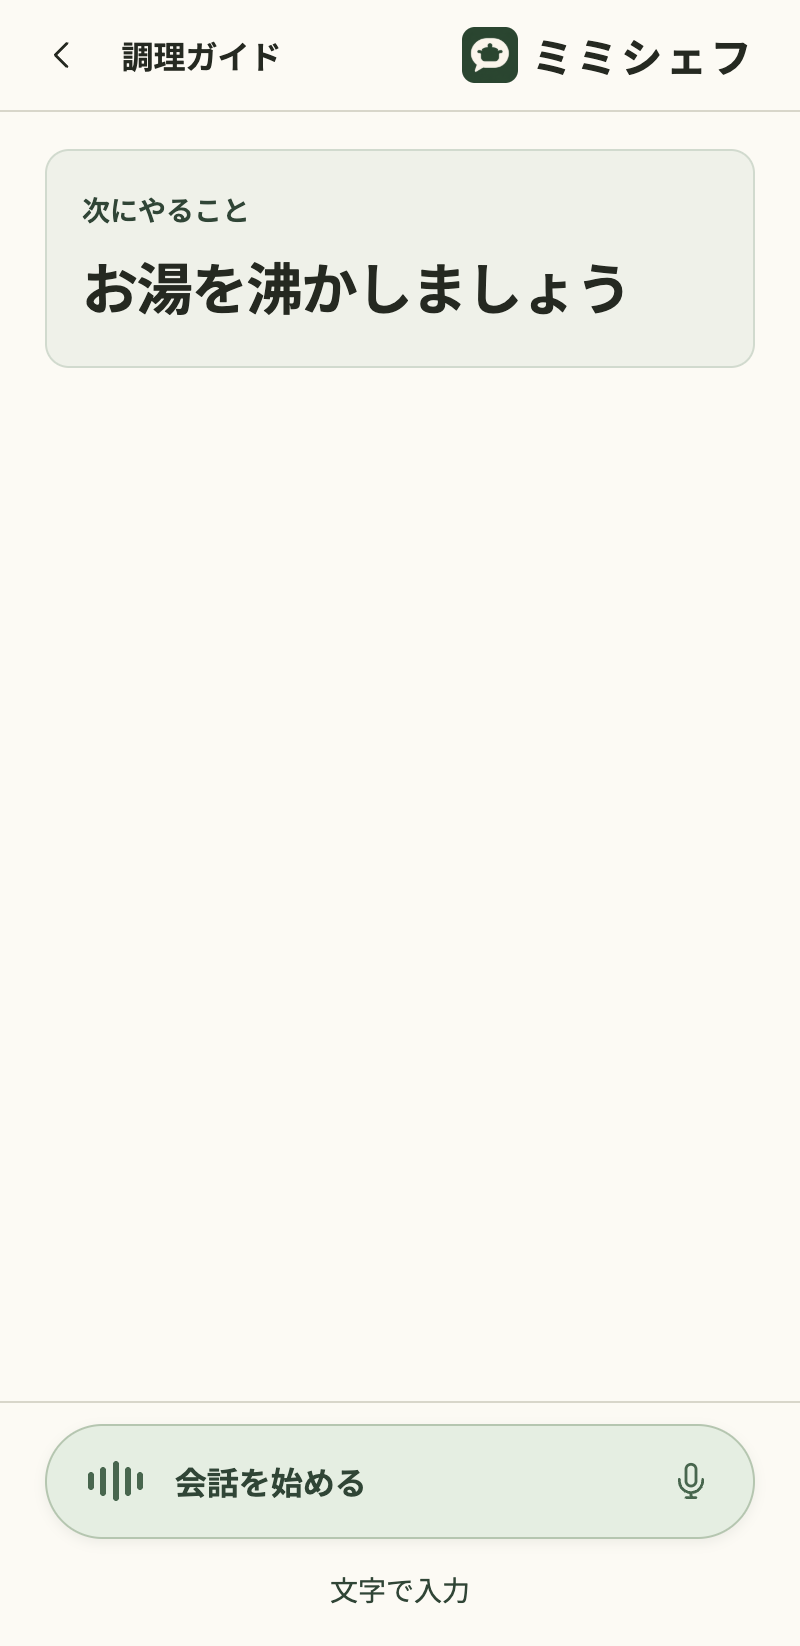
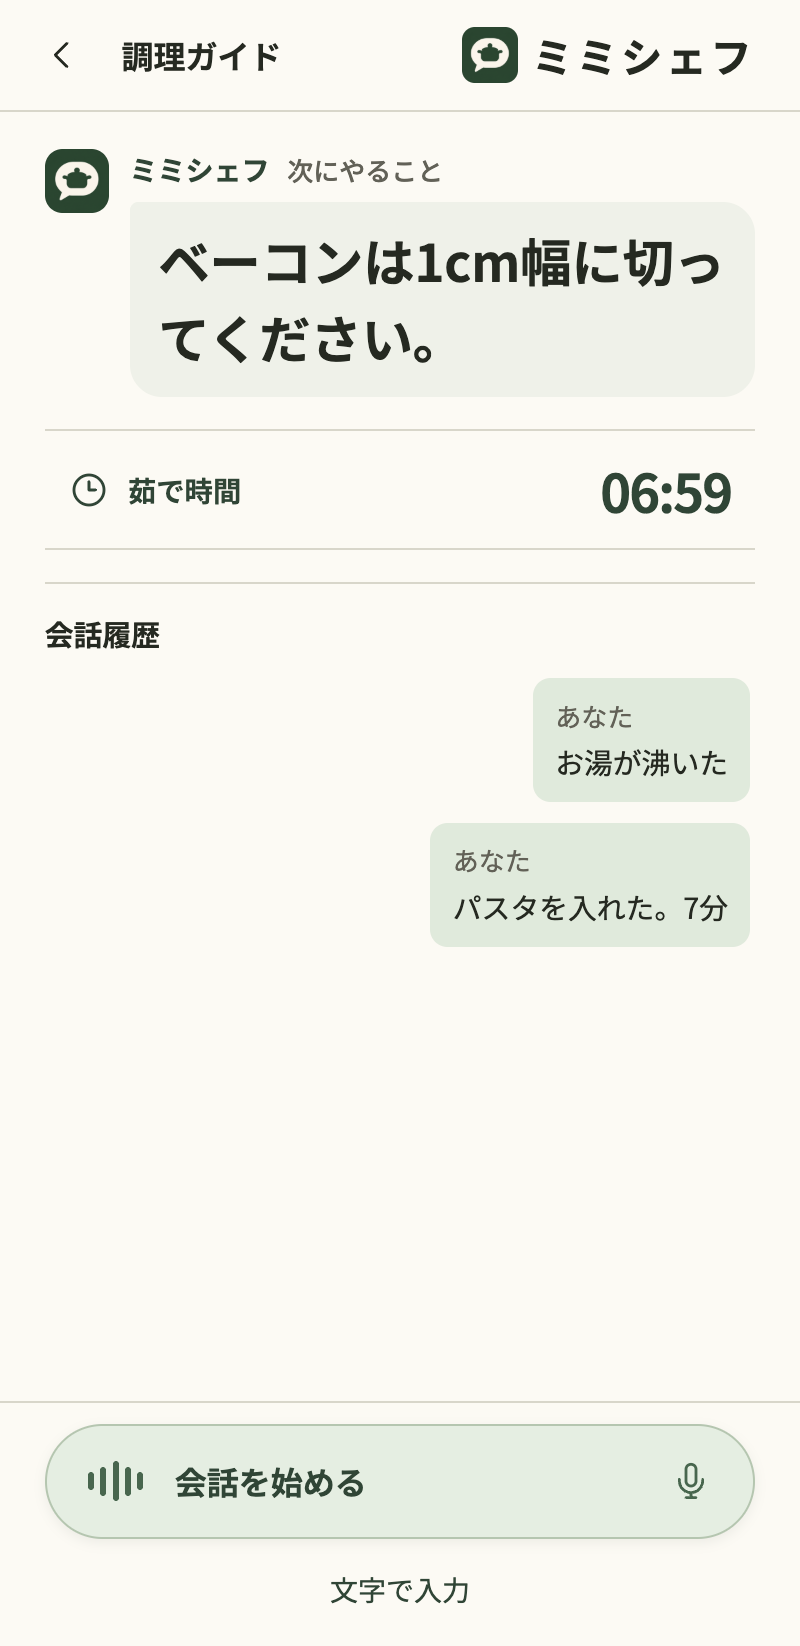
Show the mobile cooking instruction as a message

diff --git a/mobile-design-mock/styles.css b/mobile-design-mock/styles.css
@@ -45,9 +45,37 @@ svg { width: 1.25rem; height: 1.25rem; flex: none; fill: none; stroke: currentCo
 .cooking-bar .wordmark { margin-inline-start: auto; }
 #cooking { display: flex; flex-direction: column; min-height: 100dvh; }
 .cooking-content { padding: 0 1.4rem max(1.35rem, env(safe-area-inset-bottom)); }
-.next-step { margin-block: 1.15rem 1rem; padding: 1.2rem 1.1rem; border: 1px solid #d2dace; border-radius: .75rem; background: #eef1e9; }
-.next-step h2 { margin-bottom: .45rem; color: var(--green); font-size: .875rem; font-weight: 600; }
-.next-step p { font-weight: 650; font-size: clamp(1.5rem, 7vw, 2.1rem); letter-spacing: -.02em; line-height: 1.5; line-break: strict; text-wrap: balance; overflow-wrap: anywhere; }
+.next-step {
+  display: grid;
+  grid-template-columns: auto minmax(0, 1fr);
+  align-items: start;
+  gap: .65rem;
+  margin-block: 1.15rem 1rem;
+}
+.next-step-avatar { border-radius: .55rem; }
+.next-step h2 {
+  display: flex;
+  flex-wrap: wrap;
+  align-items: baseline;
+  gap: .2rem .55rem;
+  margin-bottom: .4rem;
+  color: var(--green);
+  font-size: .875rem;
+  font-weight: 700;
+}
+.next-step h2 span { color: var(--muted); font-size: .8125rem; font-weight: 500; }
+.next-step p {
+  width: fit-content;
+  max-width: 100%;
+  padding: .65rem .9rem;
+  border-radius: .25rem 1rem 1rem;
+  background: #eef1e9;
+  font-size: clamp(1.375rem, 6.4vw, 1.9rem);
+  font-weight: 650;
+  line-height: 1.5;
+  line-break: strict;
+  overflow-wrap: anywhere;
+}
 .timer { display: grid; grid-template-columns: auto minmax(0, 1fr) auto; align-items: center; gap: .6rem; min-height: 3.75rem; padding: .65rem .75rem; margin-bottom: 1rem; border-block: 1px solid var(--line); color: var(--green); }
 .timer h2 { font-size: .885rem; font-weight: 650; }
 .timer p { margin-top: .18rem; font-size: .8125rem; line-height: 1.45; }

diff --git a/mobile-design-mock/index.html b/mobile-design-mock/index.html
@@ -58,8 +58,11 @@
       </header>
       <div class="cooking-content">
         <section class="next-step" aria-labelledby="step-label">
-          <h2 id="step-label">次にやること</h2>
-          <p id="instruction" role="status"></p>
+          <img class="next-step-avatar" src="./assets/mimichef-icon.png" alt="" width="32" height="32">
+          <div>
+            <h2 id="step-label">ミミシェフ <span>次にやること</span></h2>
+            <p id="instruction" role="status"></p>
+          </div>
         </section>
         <section class="timer" id="timer" aria-labelledby="timer-label" hidden>
           <svg><use href="#clock"/></svg>
